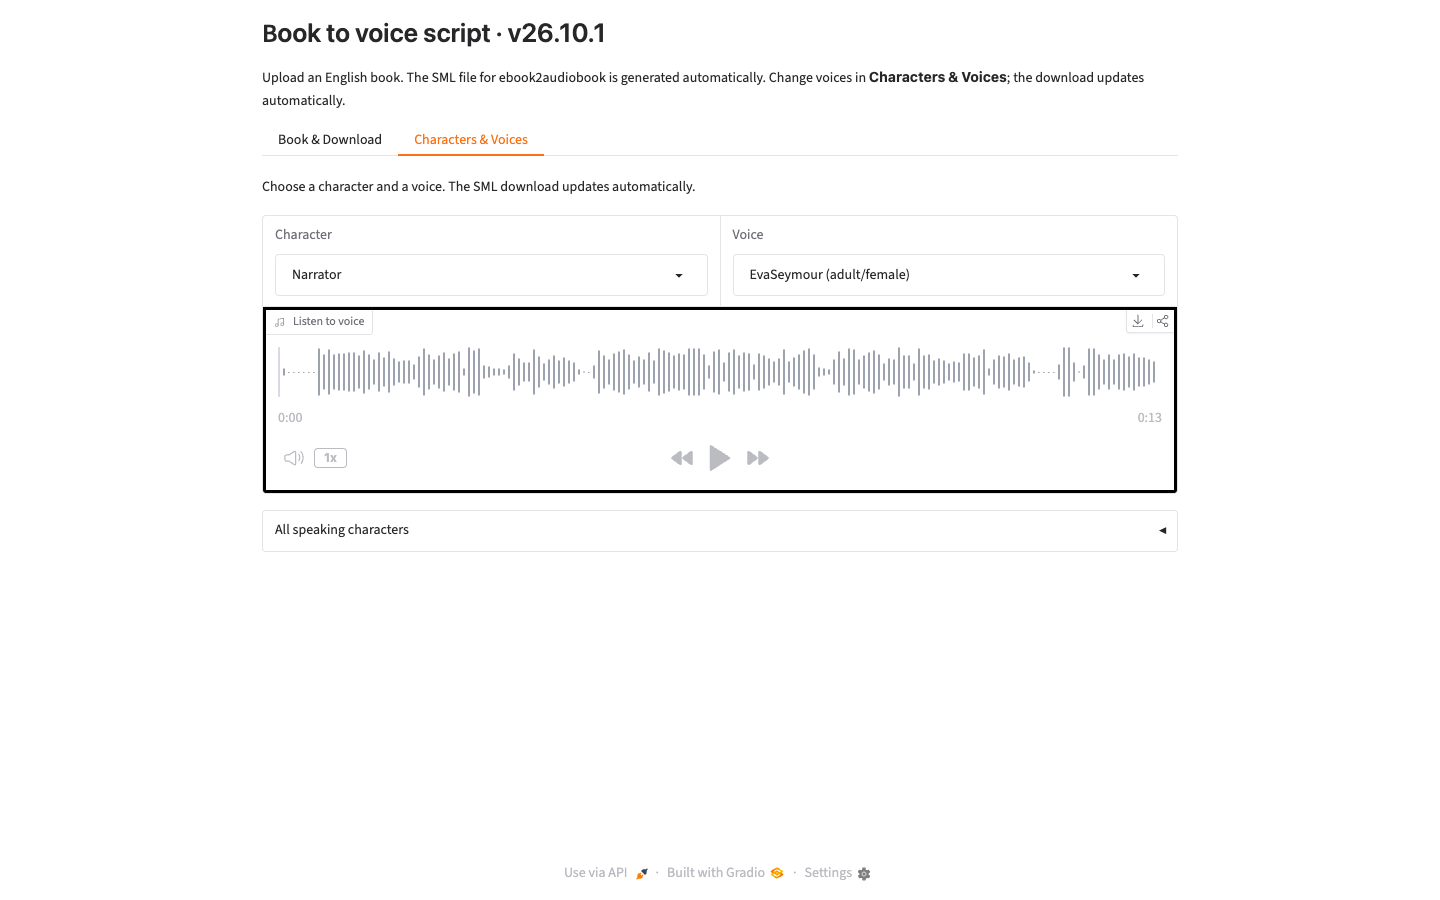
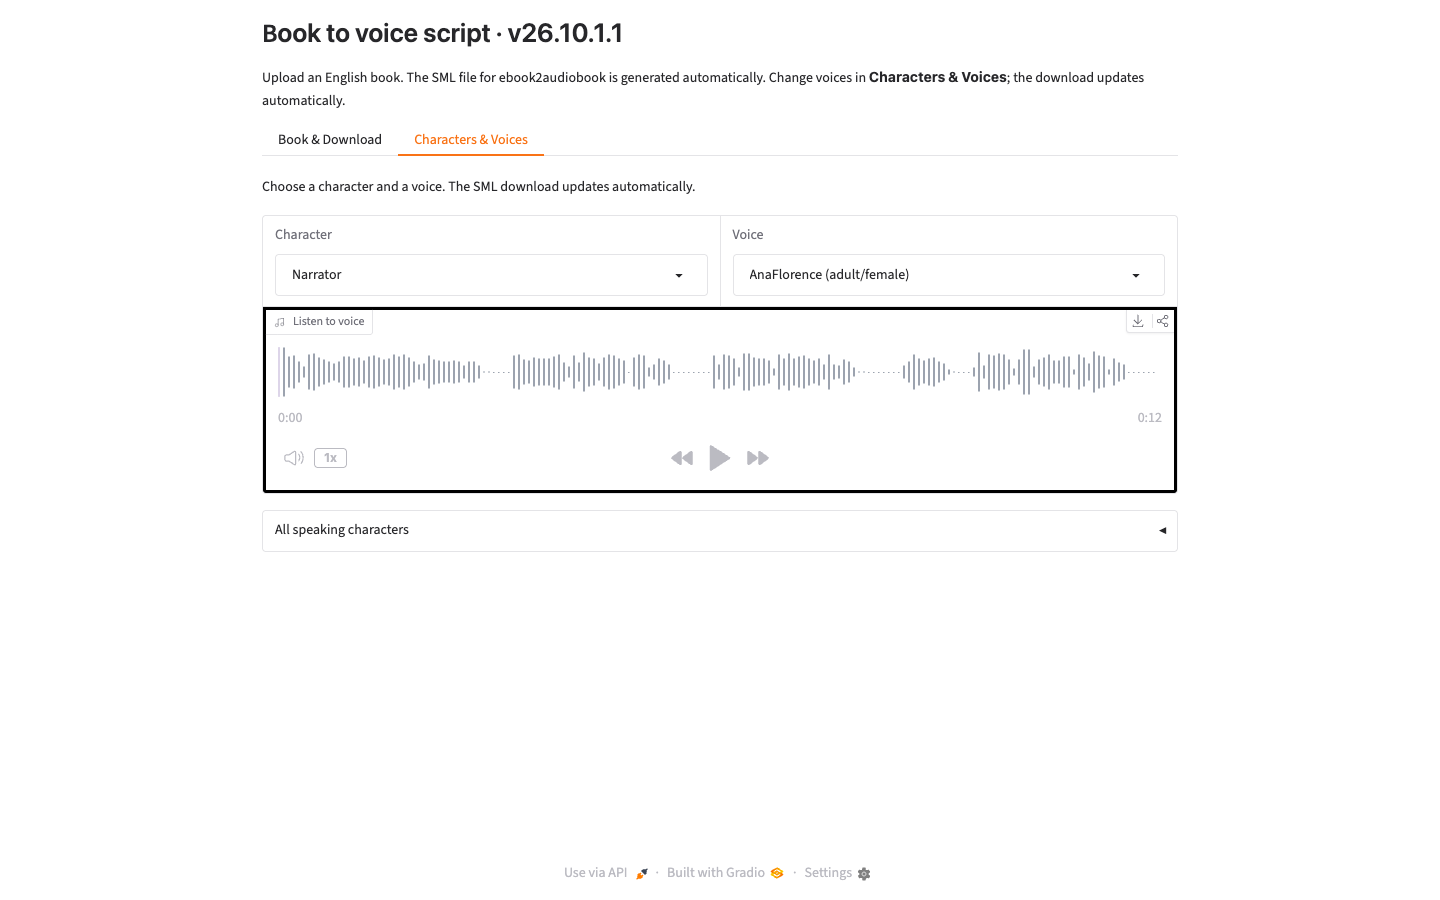
Release v26.10.1.1 with Calibre-safe voice blocks

diff --git a/sml_extractor/sml_generator.py b/sml_extractor/sml_generator.py
@@ -171,9 +171,10 @@ def _generate_from_tokens(
     if current_words:
         segments.append((current_speaker, _join_tokens(current_words)))
 
-    # Build SML output with voice tags
+    # Keep every voice block on one text line. Calibre can split a TXT book at
+    # headings; an opening tag on a previous line would be stranded in another
+    # XHTML document before E2A validates each document separately.
     sml_lines = []
-    active_voice_tag = None
 
     for speaker, text in segments:
         if speaker is None:
@@ -187,18 +188,7 @@ def _generate_from_tokens(
 
         voice_path = char_voice_map.get(speaker)
         voice_tag_val = speaker if use_macros else voice_path
-
-        if voice_tag_val != active_voice_tag:
-            if active_voice_tag is not None:
-                sml_lines.append("[/voice]")
-            if voice_tag_val:
-                sml_lines.append(f"[voice:{voice_tag_val}]")
-            active_voice_tag = voice_tag_val
-
-        sml_lines.append(text)
-
-    if active_voice_tag is not None:
-        sml_lines.append("[/voice]")
+        sml_lines.append(f"[voice:{voice_tag_val}]{text}[/voice]" if voice_tag_val else text)
 
     return "\n".join(sml_lines)
 
@@ -207,7 +197,6 @@ def _generate_from_book_txt(book_txt_content: str, char_voice_map: dict, use_mac
     """Fallback: generate SML from sentence-level .book.txt."""
     lines = book_txt_content.strip().split("\n")
     sml_lines = []
-    current_voice = None
 
     for line in lines:
         line = line.strip()
@@ -224,19 +213,9 @@ def _generate_from_book_txt(book_txt_content: str, char_voice_map: dict, use_mac
 
             voice_path = char_voice_map.get(char_name)
             voice_tag_val = char_name if use_macros else voice_path
-            if voice_tag_val != current_voice:
-                if current_voice is not None:
-                    sml_lines.append("[/voice]")
-                if voice_tag_val:
-                    sml_lines.append(f"[voice:{voice_tag_val}]")
-                current_voice = voice_tag_val
-
-            sml_lines.append(text)
+            sml_lines.append(f"[voice:{voice_tag_val}]{text}[/voice]" if voice_tag_val else text)
         else:
             sml_lines.append(line)
-
-    if current_voice is not None:
-        sml_lines.append("[/voice]")
 
     return "\n".join(sml_lines)
 

diff --git a/tests/test_sml_generator.py b/tests/test_sml_generator.py
@@ -50,9 +50,9 @@ class VoiceTransitionTests(unittest.TestCase):
             use_macros=False,
         )
         self.assertEqual(output, (
-            '[voice:jeremiah.wav]\n“Hello”\n[/voice]\n'
-            '[voice:narrator.wav]\nhe said.\n[/voice]\n'
-            '[voice:jeremiah.wav]\n“Again”\n[/voice]'
+            '[voice:jeremiah.wav]“Hello”[/voice]\n'
+            '[voice:narrator.wav]he said.[/voice]\n'
+            '[voice:jeremiah.wav]“Again”[/voice]'
         ))
 
     def test_unassigned_narrator_does_not_inherit_previous_voice(self):
@@ -62,9 +62,20 @@ class VoiceTransitionTests(unittest.TestCase):
             use_macros=False,
         )
         self.assertEqual(output, (
-            '[voice:jeremiah.wav]\nHello\n[/voice]\n'
-            'he said\n[voice:jeremiah.wav]\nAgain\n[/voice]'
+            '[voice:jeremiah.wav]Hello[/voice]\n'
+            'he said\n[voice:jeremiah.wav]Again[/voice]'
         ))
+
+    def test_all_caps_line_keeps_voice_tags_together_for_calibre(self):
+        output = _generate_from_book_txt(
+            '[Narrator] before [/]\n[Narrator] PRINCESS MATTERS [/]\n'
+            '[Narrator] after [/]',
+            {'Narrator': 'narrator.wav'},
+            use_macros=False,
+        )
+        for line in output.splitlines():
+            self.assertEqual(line.count('[voice:'), line.count('[/voice]'))
+        self.assertIn('[voice:narrator.wav]PRINCESS MATTERS[/voice]', output)
 
 
 if __name__ == '__main__':

diff --git a/README.md b/README.md
@@ -2,7 +2,7 @@
 
 E2A-SML uses BookNLP to find dialogue and speakers in an **English** book, lets you assign voices, and creates an SML text file for [ebook2audiobook](https://github.com/DrewThomasson/ebook2audiobook). It runs separately from E2A.
 
-![E2A-SML v26.10.1 GUI showing the character selector, voice selector, and audio preview](assets/web_gui.png)
+![E2A-SML v26.10.1.1 GUI showing the character selector, voice selector, and audio preview](assets/web_gui.png)
 
 ## Quick start with Docker
 
@@ -38,6 +38,14 @@ On Windows PowerShell, activate with `.venv\Scripts\Activate.ps1` and install th
 3. Give that file to E2A as the book input. Voice tags contain absolute paths to this tool's voice files, so both tools must have access to that folder. If they run in separate containers or computers, mount or copy the voice files to matching paths.
 
 E2A-SML produces one SML file for E2A. Its voice tags use paths to the assigned voice files.
+Each voice tag is closed on the same text line so Calibre can split chapters without breaking E2A's SML parser.
+
+For E2A's macOS command-line launcher, include `--headless` when passing options:
+
+```bash
+cd /path/to/ebook2audiobook
+./ebook2audiobook.command --headless --tts_engine piper --ebook "/path/to/book.e2a.sml.txt"
+```
 
 ## Command line
 
